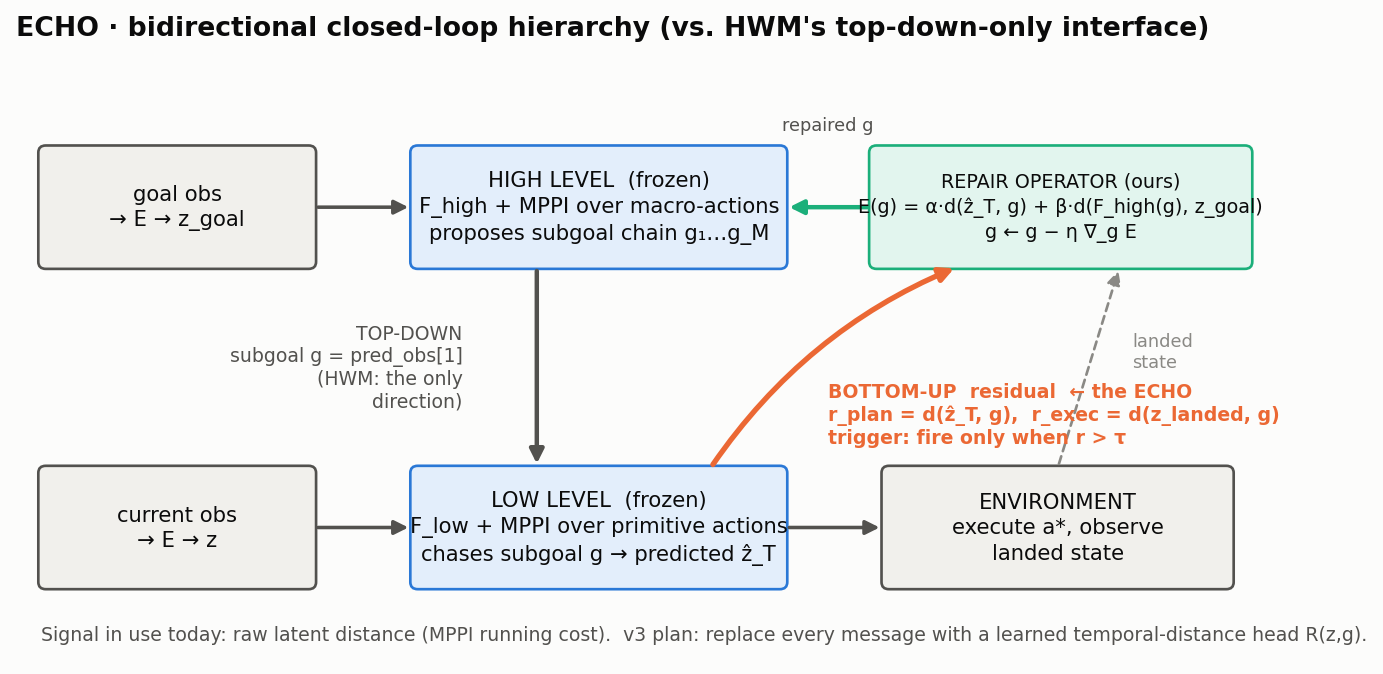
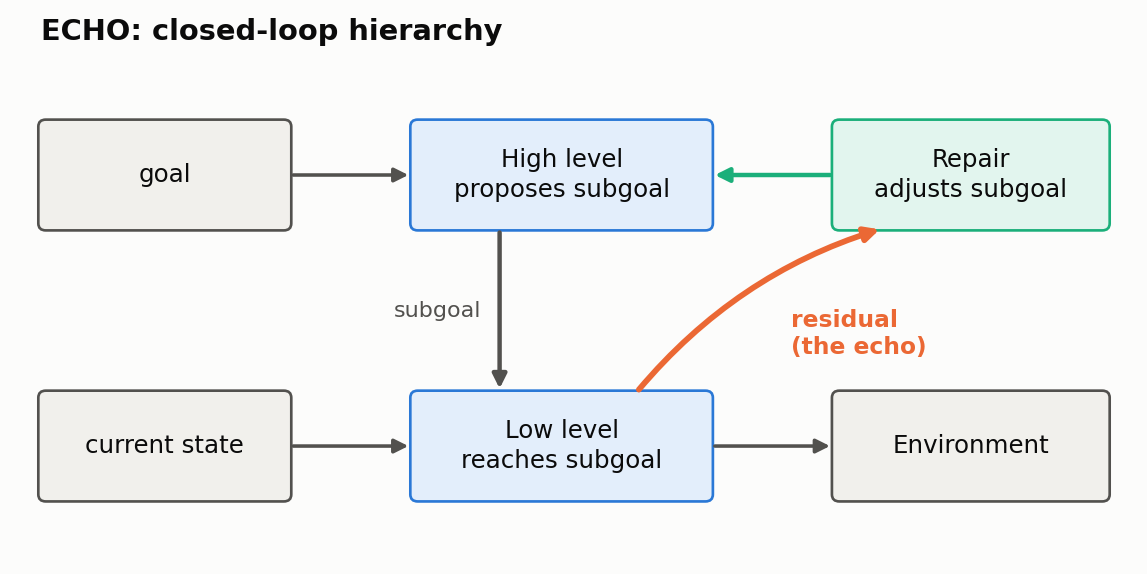
cleanup

diff --git a/scripts/make_echo_figures.py b/scripts/make_echo_figures.py
@@ -242,36 +242,22 @@ def arrow(ax, p, q, c=INK2, lw=1.6, style="-|>", ls="-", rad=0.0):
 
 
 def fig_architecture():
-    fig, ax = plt.subplots(figsize=(10, 5.2))
-    ax.set_xlim(0, 10); ax.set_ylim(0, 5.4); ax.axis("off"); ax.grid(False)
-    ax.text(0, 5.25, "ECHO · bidirectional closed-loop hierarchy (vs. HWM's top-down-only interface)",
-            fontsize=12, fontweight="bold")
-    # high level
-    box(ax, (0.2, 3.3), 2.2, 1.0, "goal obs\n→ E → z_goal", "#f1f0ec")
-    box(ax, (3.2, 3.3), 3.0, 1.0, "HIGH LEVEL  (frozen)\nF_high + MPPI over macro-actions\nproposes subgoal chain g₁…g_M",
-        "#e3eefb", ec=BLUE, bold=False)
-    box(ax, (6.9, 3.3), 3.05, 1.0, "REPAIR OPERATOR (ours)\nE(g) = α·d(ẑ_T, g) + β·d(F_high(g), z_goal)\ng ← g − η ∇_g E", "#e2f5ee", ec=AQUA, fs=8.6)
-    # low level
-    box(ax, (0.2, 0.6), 2.2, 1.0, "current obs\n→ E → z", "#f1f0ec")
-    box(ax, (3.2, 0.6), 3.0, 1.0, "LOW LEVEL  (frozen)\nF_low + MPPI over primitive actions\nchases subgoal g → predicted ẑ_T",
-        "#e3eefb", ec=BLUE)
-    box(ax, (7.0, 0.6), 2.8, 1.0, "ENVIRONMENT\nexecute a*, observe\nlanded state", "#f1f0ec")
-    arrow(ax, (2.4, 3.8), (3.2, 3.8)); arrow(ax, (2.4, 1.1), (3.2, 1.1))
-    arrow(ax, (6.2, 1.1), (7.0, 1.1))
-    # top-down
-    arrow(ax, (4.2, 3.3), (4.2, 1.6), c=INK2, lw=2)
-    ax.text(3.6, 2.45, "TOP-DOWN\nsubgoal g = pred_obs[1]\n(HWM: the only\ndirection)", fontsize=8.5, ha="right", va="center",
-            color=INK2)
-    # bottom-up
-    arrow(ax, (5.6, 1.6), (7.6, 3.3), c=ORANGE, lw=2.4, rad=-0.15)
-    ax.text(6.55, 2.05, "BOTTOM-UP  residual  ← the ECHO\nr_plan = d(ẑ_T, g),  r_exec = d(z_landed, g)\n"
-            "trigger: fire only when r > τ", fontsize=8.5, color=ORANGE, ha="left", va="center", fontweight="bold")
-    arrow(ax, (6.9, 3.8), (6.2, 3.8), c=AQUA, lw=2)
-    ax.text(6.55, 4.45, "repaired g", fontsize=8, color=INK2, ha="center")
-    arrow(ax, (8.4, 1.6), (8.9, 3.3), c=GRAY, lw=1.2, ls=(0, (3, 2)))
-    ax.text(9.0, 2.45, "landed\nstate", fontsize=8, color=MUTED)
-    ax.text(0.2, 0.15, "Signal in use today: raw latent distance (MPPI running cost).  v3 plan: replace every message "
-            "with a learned temporal-distance head R(z,g).", fontsize=8.5, color=INK2)
+    fig, ax = plt.subplots(figsize=(9, 4.4))
+    ax.set_xlim(0, 9); ax.set_ylim(0, 4.6); ax.axis("off"); ax.grid(False)
+    ax.text(0.2, 4.4, "ECHO: closed-loop hierarchy", fontsize=13, fontweight="bold")
+    box(ax, (0.2, 2.8), 2.0, 0.9, "goal", "#f1f0ec", fs=11)
+    box(ax, (3.2, 2.8), 2.4, 0.9, "High level\nproposes subgoal", "#e3eefb", ec=BLUE, fs=11)
+    box(ax, (6.6, 2.8), 2.2, 0.9, "Repair\nadjusts subgoal", "#e2f5ee", ec=AQUA, fs=11)
+    box(ax, (0.2, 0.5), 2.0, 0.9, "current state", "#f1f0ec", fs=11)
+    box(ax, (3.2, 0.5), 2.4, 0.9, "Low level\nreaches subgoal", "#e3eefb", ec=BLUE, fs=11)
+    box(ax, (6.6, 0.5), 2.2, 0.9, "Environment", "#f1f0ec", fs=11)
+    arrow(ax, (2.2, 3.25), (3.2, 3.25)); arrow(ax, (2.2, 0.95), (3.2, 0.95))
+    arrow(ax, (5.6, 0.95), (6.6, 0.95))
+    arrow(ax, (3.9, 2.8), (3.9, 1.4), lw=2)
+    ax.text(3.75, 2.1, "subgoal", fontsize=10, ha="right", va="center", color=INK2)
+    arrow(ax, (5.0, 1.4), (7.0, 2.8), c=ORANGE, lw=2.6, rad=-0.15)
+    ax.text(6.25, 1.9, "residual\n(the echo)", fontsize=10.5, color=ORANGE, ha="left", va="center", fontweight="bold")
+    arrow(ax, (6.6, 3.25), (5.6, 3.25), c=AQUA, lw=2)
     save(fig, "schematic_architecture.png")
 
 

diff --git a/README.md b/README.md
@@ -1,127 +1,45 @@
 # ECHO — Emergent Closed-loop Hierarchical Optimization
 
-*Research codebase. Status as of **2026-11-02**.*
-
-> **This is the new, canonical repository for the project.** An earlier copy lived on a different
-> GitHub account and has been taken down; links to it are dead. All current code, results, and
-> updates live here.
-
- Hierarchical latent world models such as **HWM** (Hierarchical World Models, on top of PLDM)
-and **H-JEPA** plan *top-down only*: the high level proposes a subgoal, the low level chases it, and the
-high level never learns how badly execution fell short. The low level already computes that shortfall: its
-planner's terminal residual. ECHO makes that residual **flow back up** (the "echo"). The result is a
-closed loop in which the high level can repair or re-place subgoals in the middle of an episode, instead
-of committing to its plan open-loop.
+Hierarchical world models (HWM, H-JEPA) plan top-down only: the high level sets a subgoal, the low level
+chases it, and the high level never learns whether it was reached. ECHO sends the low-level planning
+residual back up, so the high level can repair subgoals mid-episode.
 
 ![ECHO architecture](figures/echo/schematic_architecture.png)
 
-
-
-## TL;DR: where we are
+## TL;DR
 
 **ECHO** (independent research): a closed-loop hierarchical world model that feeds low-level planning error back to the high level; reproduced HWM/PLDM on D4RL, found a reachability signal (ρ = 0.60), and more than doubled long-horizon success (0.38 → 0.87) in controlled experiments.
 
----
+## Results
 
-## 1. Reimplementations and reproductions
-
-### 1a. HWM / PLDM reproduction
-We ran the authors' **HWM_PLDM** code ([kevinghst/HWM_PLDM](https://github.com/kevinghst/HWM_PLDM) @ `e197375`)
-on RunPod (RTX 3090) with the frozen public checkpoints: 98×98 image observations, MPPI at both levels,
-planner settings matching the paper's Table 14. No upstream training was done. Getting it running took
-infra work (the d4rl/mujoco render pipeline, a DataLoader shared-memory crash, a config-key trap, a
-multi-chunk `n_envs` crash). Every upstream edit is logged in [`echo_map/PATCHES.md`](echo_map/PATCHES.md),
-and the patched files are in `echo_map/pod_backup/pldm/`.
+**Reproductions**
+- Reproduced flat PLDM and HWM on D4RL diverse-maze from public checkpoints, matching paper numbers.
+- Reimplemented flat LeWM, H-JEPA and HWM from scratch on a pixel FourRoom environment; all three train stably.
 
 ![M1 reproduction](figures/echo/m1_reproduction.png)
 
-### 1b. H-JEPA / LeWM / HWM from scratch 
-This is a clean reimplementation of the three world-model families on a pixel **FourRoom** environment
-(64×64, doors closed with p=0.5, 3750 offline episodes), sharing one codebase:
-- **flat LeWM**: 1-level JEPA (conv encoder + residual MLP predictor) with **SIGReg** anti-collapse regularization (λ=0.72)
-- **H-JEPA**: 2 levels, learned E2 + SIGReg on both levels (λ=0.18), stride 2, learned macro-actions
-- **HWM-style**: 2 levels with E2 = identity and no level-2 SIGReg (the level-2 latent *is* the level-1 latent)
-
-Also included: a gradient-based batched planner (flat / projected / hierarchical, `plan.py`) with reachability
-logging, linear probes (`probe.py`), and diagnostics for consistency gap and level-2 step norm (`diagnostics.py`).
-
-![p1 training](figures/echo/p1_training.png)
-
-**Read:** all three train stably. Effective rank shows the expected ordering: the HWM-style model, which has
-no SIGReg on level 2, uses the fewest dimensions (14 of 64), H-JEPA uses 24, and flat LeWM 40. **Not yet
-done:** finishing training (20k steps), running the planning evaluation, and seeds 1+.
-
-## 2. Our toy ladder (`echo_maze/`, `scripts/`): why hierarchy, and why closed loop
-
-These experiments use our own state-observation mazes, where ground truth is cheap. The ladder: prove
-the floor, find where it breaks, add hierarchy, then ask whether the hierarchy can *emerge*.
-
-| Rung | Claim | Result |
-|---|---|---|
-| 0 | flat world model + MPC clears easy mazes | ≥ 95%  |
-| 1 | flat collapses as horizon L grows | 100% → 5% from L=2 to L=12  |
-| 2 | imposed HWM-style hierarchy recovers it | exact model: 75% vs 32% at L=12 . Learned model: hierarchy ≈ flat (the learned coarse model places wall-crossing subgoals) |
-| 3 | subgoals *emerge* from planning pressure | REINFORCE ≈ 0, BC 0.07/0.03/0.00, Danskin-energy system 0.07 at L=2. **Null**, but the reachability energy *does* migrate subgoals onto doorways without labels (lift ×66) |
-| → | bidirectional closed loop (oracle high level) | **0.38 → 0.87 at L=4**, and the gap widens with horizon  |
+**Toy maze ladder**
+- Flat planning collapses with horizon: 100% → 5% from L=2 to L=12.
+- Imposed hierarchy recovers it with an exact model (75% vs 32% at L=12), but not with a learned one.
+- Emergent subgoals (RL, BC, energy-based): null, though the reachability energy moves subgoals onto doorways without labels.
+- Closed loop with an oracle high level: **0.38 → 0.87** success at L=4; the gap grows with horizon.
 
 <p>
 <img src="figures/rung1_failure_curve.png" width="49%"> <img src="figures/rung2_rigorous.png" width="49%">
 <img src="figures/closed_loop_horizon.png" width="40%"> <img src="figures/rung3_gate0_energy.png" width="58%">
 </p>
 
-The certified bottleneck maze (off-center doorways, so that subgoal placement causally matters) is
-documented in [`echo_maze/CERTIFIED.md`](echo_maze/CERTIFIED.md).
-
-## 3. Our additions on HWM: test-time residual repair (`echo_map/repair/`)
-
-All additions are additive and gated by environment variables (`ECHO_*`). With none set, upstream is
-bit-identical. The hook is one line, the subgoal seam `g = l2_result.pred_obs[1]` in `two_lvl_planner.py`.
-
-- **M2: is the residual real?** ρ(r_plan, r_exec) = **0.602**, n=528.  This retired the largest risk.
-- **M3: repair operator** `E(g) = α·d(ẑ_T,g) + β·d(F_high(g), z_goal)`. It takes gradient steps on g only,
-  with frozen-parameter guards asserted in code.
+**Repair on frozen HWM**
+- The planning residual predicts execution error: Spearman ρ = **0.60** (n = 528).
+- Residual-triggered repair: failures 7/18 → 5/18 with 2.6× fewer repairs than always-repair (not significant yet).
+- Diagnosis: failing subgoals are reachable but misplaced. Raw latent distance is too weak a signal to drive the loop.
 
 ![repairs](figures/echo/m3_repair_ledger.png)
-
-- **M3.5: why so modest?** We checked which signal actually separates failing episodes:
-
 ![signals](figures/echo/m3_signal_auc.png)
 
-**The reframe:** failing HWM subgoals are *reachable but misplaced*, so a reachability trigger keys on the
-wrong quantity. Goal-progress stall separates failures well, but only when measured with oracle (x,y); in
-raw JEPA latent space it is close to chance. Every message in the loop is denominated in raw latent
-distance, so the mechanism is **starved by its signal**.
+## Next
 
-## 4. Next: the gate experiment
-
-Learn **R(z, g) = temporal distance** (steps-to-reach) on the **frozen** level-1 latents. Hindsight
-supervision is free: two states k steps apart on an offline trajectory form a pair labelled k. R would then
-replace raw latent distance everywhere: as the trigger, as the repair gradient, and as the subgoal score.
-`echo_map/pod_backup/reach_head.py` is built and self-tested; the pod glue (encode trajectories → train R →
-failure-AUC) is the next build item.
-
-| failure-AUC of R | meaning | paper |
-|---|---|---|
-| ≥ 0.85 | the information is in the latent; only the metric was wrong | v3 as planned |
-| 0.70–0.85 | partial recovery | mixed, still writable |
-| ≤ 0.70 | the frozen encoder discarded control information | "JEPA latents are not plannable" |
-
-**Ordered to-do:** (1) the R gate; (2) the compute-matched `hwm_replan` baseline (the spine); (3) longer
-goals (`block_radii=(17,24)`) at the paper budget `n_steps=500`; (4) scale to n=40 with a horizon sweep;
-(5) finish the `echo_p1` runs and evaluate their planning.
-
----
-
-## Repo map
-
-```
-README.md                  ← this update
-docs/                      ECHO_OVERVIEW.md (exact I/O of every rung), echo_system.html, RUNG0_README.md, master.docx
-figures/                   all plots; figures/echo/ = this update (regenerate: python scripts/make_echo_figures.py)
-echo_maze/                 certified bottleneck maze, rung 3 (REINFORCE / BC / Danskin energy), closed_loop.py
-echo_map/                  HWM_PLDM study: repair/ (our code), pod_backup/ (runs, CSVs, analysis, patched upstream
-                           files), results/ (M1), runpod/ (setup scripts), STATUS_2026-08-16.md (full ledger)
-echo_p1/                   H-JEPA / LeWM / HWM reimplementation on FourRoom (+ dataset, checkpoints, logs)
-models/                    toy-maze checkpoints + all run logs (models/results/)
-scripts/                   rung 0–3 drivers and figure scripts
-```
+- Learn a temporal-distance head R(z, g) on frozen latents and use it as the signal between levels (gate: failure-AUC ≥ 0.85).
+- Compute-matched replanning baseline.
+- Longer goals, larger n, horizon sweep.
+- Planning evaluation for the from-scratch H-JEPA / LeWM / HWM models.
